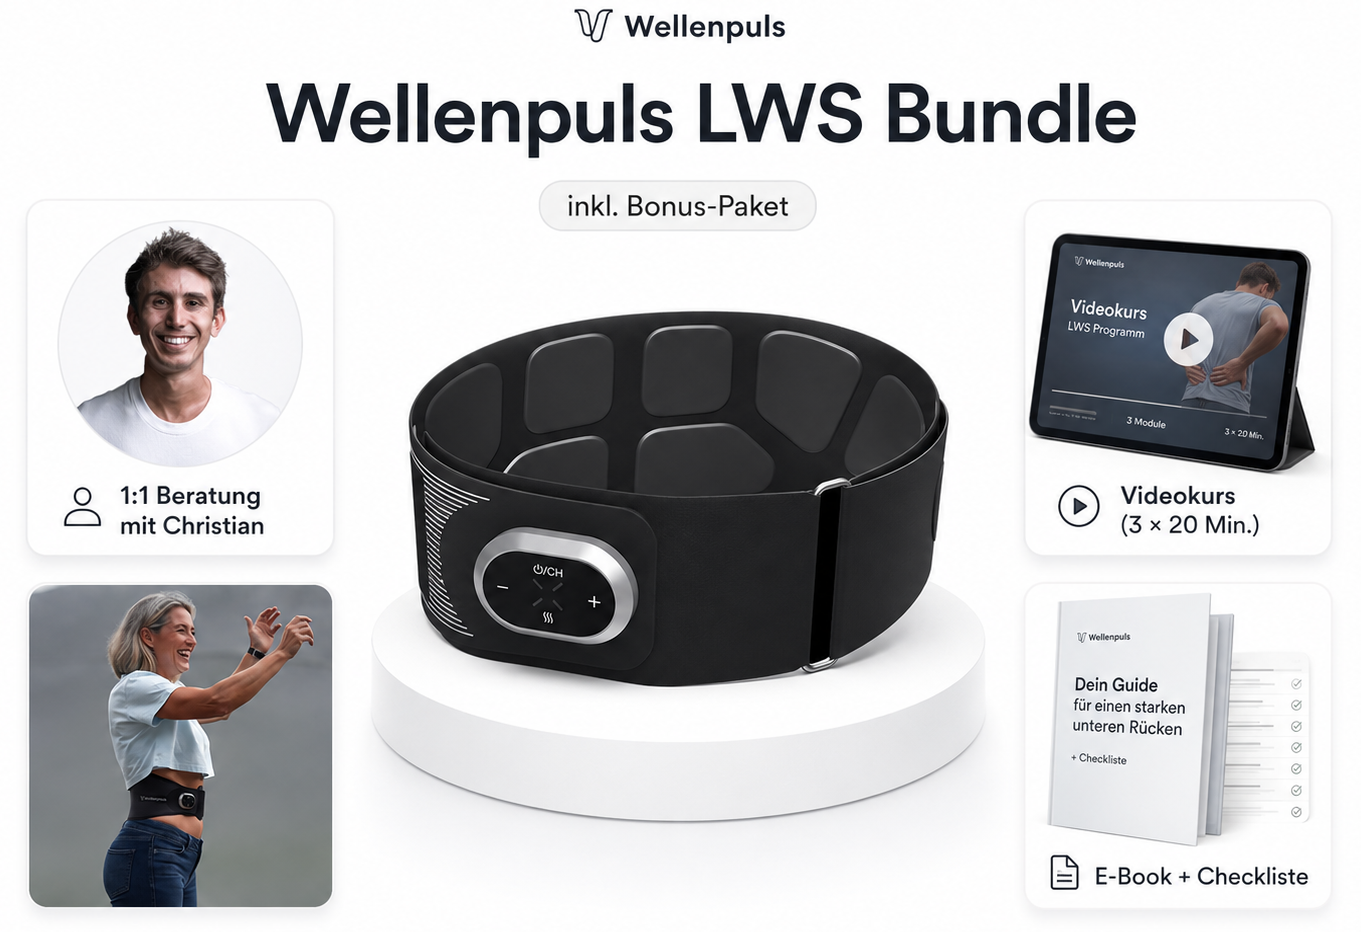
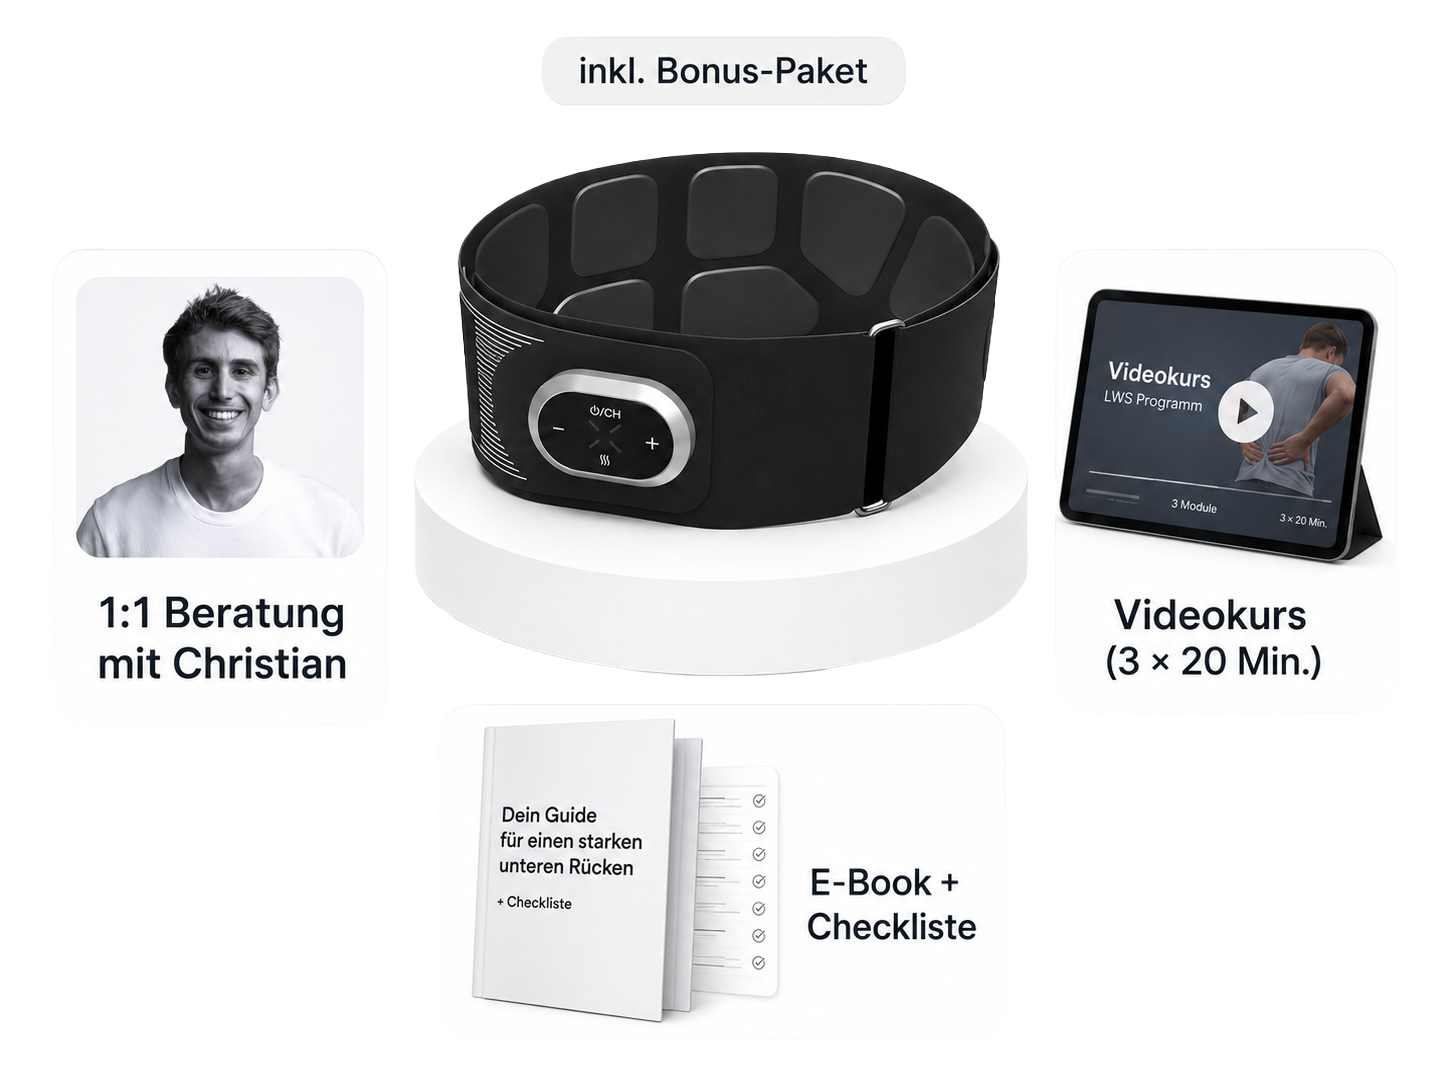
Multiple small fixes across funnel pages
- assets: updated bundle_image.png, added Zahlungsanbieter.png
- LP: remove DSHS Köln from hero proof strip
- Danke: remove back-link to product page
- Checkout: replace emoji payment icons with Zahlungsanbieter.png image

diff --git a/ruecken/checkout/index.html b/ruecken/checkout/index.html
@@ -221,13 +221,7 @@ a{color:inherit;text-decoration:none}
   <!-- PAYMENT METHODS -->
   <div class="payment-methods">
     <div class="payment-methods-label">Akzeptierte Zahlungsmethoden</div>
-    <div class="payment-icons">
-      <div class="payment-icon">💳 Kreditkarte</div>
-      <div class="payment-icon">🅿 PayPal</div>
-      <div class="payment-icon" style="color:oklch(35% 0.12 290)">K Klarna</div>
-      <div class="payment-icon">🍎 Apple Pay</div>
-      <div class="payment-icon">G Pay</div>
-    </div>
+    <img src="../../assets/Zahlungsanbieter.png" alt="Kreditkarte, PayPal, Klarna, Apple Pay, Google Pay" style="width:100%;max-width:340px;display:block;margin:0 auto;height:auto">
   </div>
 
   <!-- GUARANTEE -->

diff --git a/ruecken/danke/index.html b/ruecken/danke/index.html
@@ -189,11 +189,6 @@ a{color:inherit;text-decoration:none}
     <a href="https://berkanceyhan.github.io/stabil-im-alltag/ruecken/lp/" class="share-btn">Seite teilen →</a>
   </div>
 
-  <!-- BACK -->
-  <div class="back-link">
-    <a href="../../lp/">← Zurück zur Produktseite</a>
-  </div>
-
   <!-- FOOTER -->
   <div class="footer">
     <a href="/impressum/">Impressum</a>

diff --git a/ruecken/lp/index.html b/ruecken/lp/index.html
@@ -257,7 +257,7 @@ img{display:block;width:100%;height:auto}
     <div class="proof-strip">
       <span class="stars">★★★★★</span>
       <span>120+ Kunden</span>
-      <span>DSHS Köln</span>
+
       <span>30 Tage Geld-zurück</span>
     </div>
   </div>
